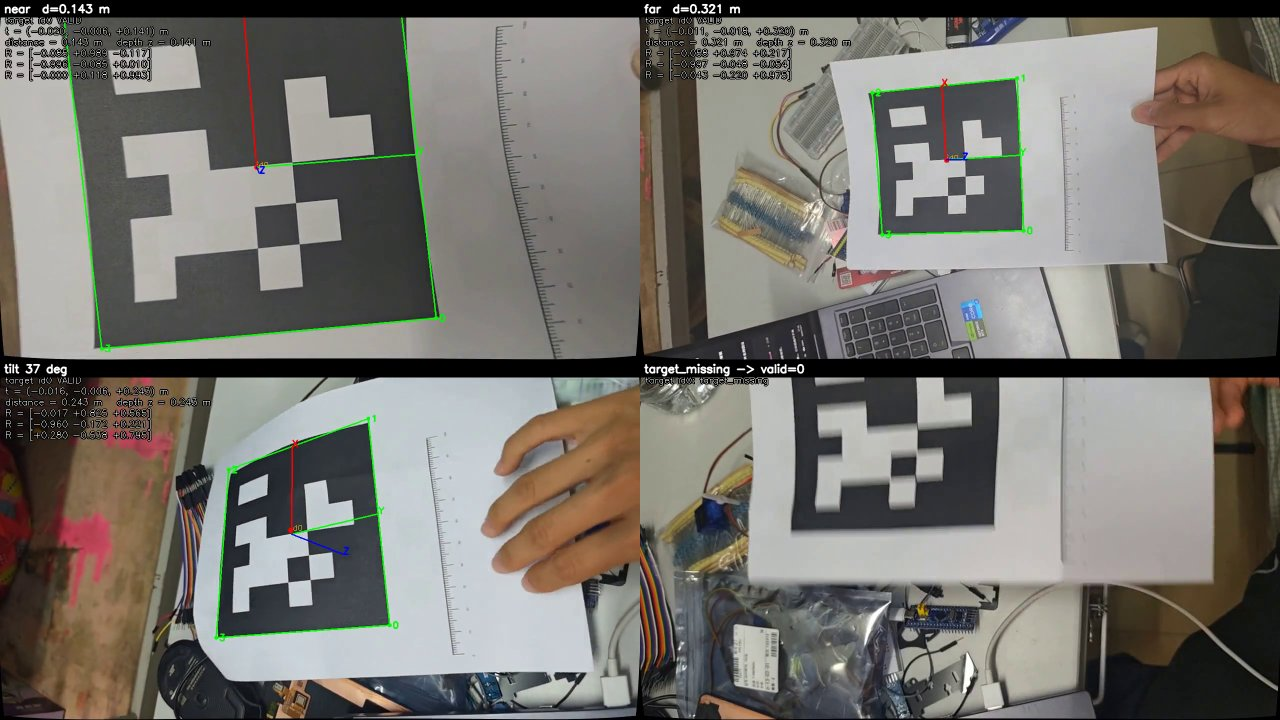
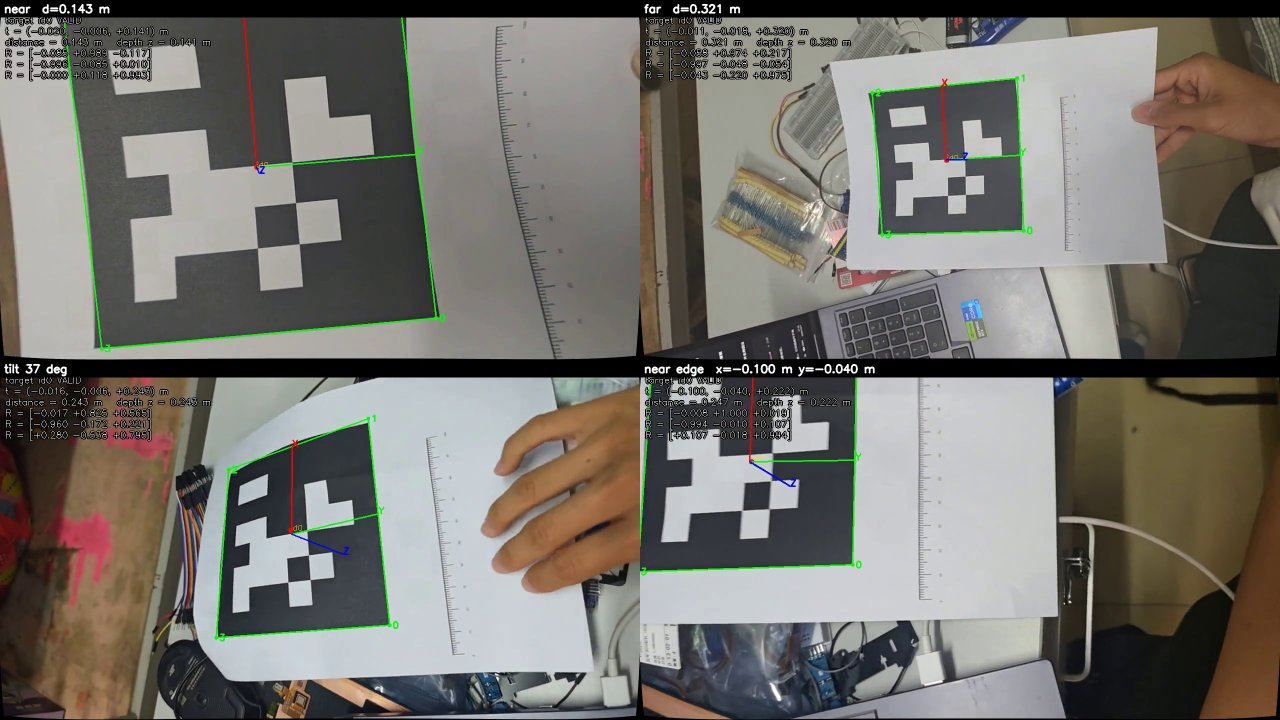
Trim calibration notes and show an edge detection in pose frames

Changed region(s): [[0.5, 0.4889, 1.0, 1.0]]

diff --git a/README.md b/README.md
@@ -39,15 +39,11 @@ Python + OpenCV 实现，三个任务全部完成，并在 Ubuntu 24.04.5（WSL2
 | 畸变 | k1 = 0.0555，k2 = −0.4983，p1 = 0.0081，p2 = 0.0006，k3 = 0.7339 |
 | 重投影误差 | RMS 0.81 px，单张 0.51～1.20 px |
 
-重投影误差是用标定结果把棋盘格角点投影回图像后，与实际检测角点之间的平均偏差。棋盘平铺在桌面上，用 scrcpy 以 1280×720 录下手机移动的整段视频（2619 帧），再自动挑帧：先丢掉运动模糊的帧（相邻两帧角点平均移动超过 4 px），然后按棋盘在画面中的位置、大小和倾斜方向，贪心地挑出彼此差异最大的 22 张（[`tools/select_calib_frames.py`](tools/select_calib_frames.py)）。第一次标定后，去掉单张误差超过中位数 1.5 倍的 1 张（第 1504 帧），用剩下的 21 张重新标定得到上表。
-
-最早一版用手持打印纸拍摄，纸张弯曲导致误差为 2.63 px（单张平面单应性拟合的残差就有 2.53 px）；改为平铺后降到 0.81 px。
-
 ### 任务二：AprilTag 位姿
 
 ![AprilTag 位姿](docs/media/tagpose.gif)
 
-四格依次是最近、最远、倾斜和目标离开画面时的输出。绿色框为指定 ID0 的四个角点（编号 0～3），红点为中心，坐标轴 X 红、Y 绿、Z 蓝；文字是 R、t、直线距离和 Z 深度：
+四格依次是最近、最远、倾斜和贴近画面边缘时的输出。绿色框为指定 ID0 的四个角点（编号 0～3），红点为中心，坐标轴 X 红、Y 绿、Z 蓝；文字是 R、t、直线距离和 Z 深度：
 
 ![位姿关键帧](docs/media/tagpose_frames.jpg)
 
